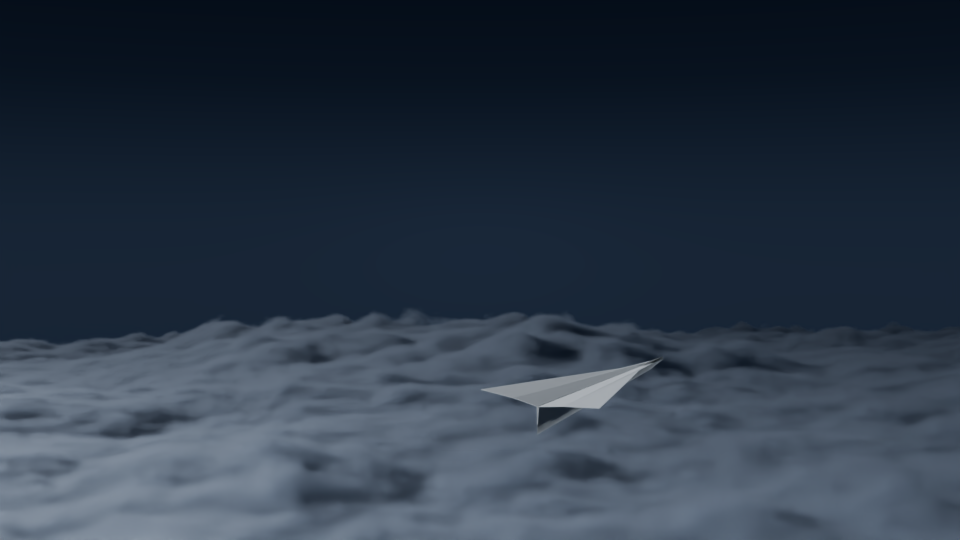
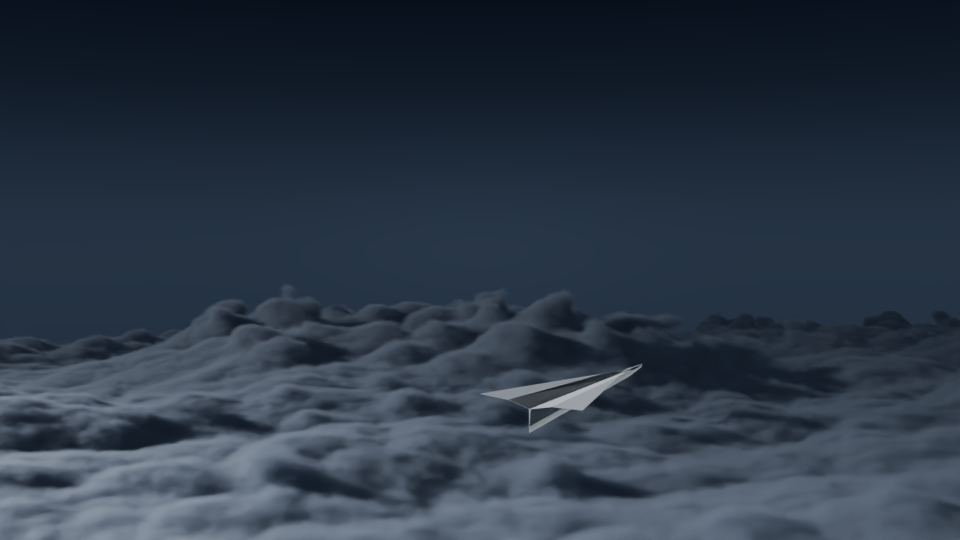
WIP: Blender scene iterations, DigitalOcean deploy
Claude-Session: https://claude.ai/code/session_01TELfCwuXZ5Qk43sSRkKQuj

diff --git a/deploy/digitalocean/smoke/e2e.py b/deploy/digitalocean/smoke/e2e.py
@@ -1,0 +1,252 @@
+"""End-to-end smoke test for the AirBridge cloud droplet (deploy/digitalocean/README.md "End-to-end smoke test").
+
+Runs on any Linux machine with outbound HTTPS. Gets a throwaway Headscale user + 2 single-use pre-auth keys from the
+TEMPORARY admin endpoint (SMOKE_TEST=1, bearer = waitlist admin token), starts two real airbridge-net sidecars
+(separate state dirs) and two real AirBridge daemons in sidecar mode, and checks: both `connected`, mutual
+visibility in /nodes, and real deliveries both ways (/send_task -> sidecar /send -> peer mesh :8989 -> peer inbox).
+With --cleanup it then stops everything, calls POST /v1/admin/smoke/cleanup (deletes the smoke user + nodes and turns
+the endpoints off for good) and checks that both endpoints answer 404.
+
+  python3 deploy/digitalocean/smoke/e2e.py --base https://<host> --token-file <file> [--cleanup]
+      [--net-bin desktop/resources/net/linux-x64/airbridge-net] [--python <venv python with airbridge deps>]
+
+Pre-auth keys and the admin token are never printed. Prints one line: SMOKE_RESULT {...}. Proxy env (HTTPS_PROXY,
+NO_PROXY) and SSL_CERT_FILE are passed to the sidecars, so it also works behind an egress proxy (DERP over 443 then).
+"""
+
+from __future__ import annotations
+
+import argparse
+import json
+import os
+import re
+import secrets
+import ssl
+import subprocess
+import sys
+import tempfile
+import threading
+import time
+import urllib.error
+import urllib.request
+from pathlib import Path
+
+REPO = Path(__file__).resolve().parents[3]
+LOCAL = urllib.request.build_opener(urllib.request.ProxyHandler({}))  # loopback APIs: never via a proxy
+DERP_RE = re.compile(r"derp|magicsock|netcheck|home is now|endpoints changed", re.I)
+SECRETISH = re.compile(r"(hskey|tskey|nodekey|privkey|auth[_-]?key)", re.I)
+
+
+def log(msg: str, **kw) -> None:
+    print(json.dumps({"smoke": msg, **kw}), file=sys.stderr, flush=True)
+
+
+def http(opener, method: str, url: str, body=None, headers=None, timeout: float = 40):
+    data = None if body is None else json.dumps(body).encode()
+    req = urllib.request.Request(url, data=data, method=method,
+                                 headers={"Content-Type": "application/json", **(headers or {})})
+    try:
+        with opener.open(req, timeout=timeout) as r:
+            raw = r.read()
+            return r.status, (json.loads(raw) if raw else {})
+    except urllib.error.HTTPError as e:
+        raw = e.read()
+        try:
+            return e.code, json.loads(raw)
+        except ValueError:
+            return e.code, {"raw": raw.decode(errors="replace")[:200]}
+
+
+def wait(pred, timeout: float, what: str):
+    deadline = time.monotonic() + timeout
+    last = None
+    while time.monotonic() < deadline:
+        try:
+            v = pred()
+            if v:
+                return v
+        except Exception as exc:  # noqa: BLE001
+            last = exc
+        time.sleep(0.25)
+    raise RuntimeError(f"timeout waiting for {what} (last: {last!r})")
+
+
+def child_env(**extra):
+    keep = ("PATH", "HOME", "LANG", "HTTPS_PROXY", "https_proxy", "HTTP_PROXY", "http_proxy", "NO_PROXY", "no_proxy",
+            "SSL_CERT_FILE")
+    env = {k: os.environ[k] for k in keep if k in os.environ}
+    env["TS_NO_LOGS_NO_SUPPORT"] = "true"
+    env.update(extra)
+    return env
+
+
+class Sidecar:
+    def __init__(self, root: Path, name: str, control_url: str, net_bin: str):
+        self.name, self.dir, self.control_url, self.bin = name, root / name, control_url, net_bin
+        self.dir.mkdir(mode=0o700)
+        self.token = secrets.token_urlsafe(32)
+        self.derp_lines: list[str] = []
+
+    def start(self, auth_key: str) -> None:
+        cfg = {"control_url": self.control_url, "hostname": f"airbridge-{self.name}", "control_token": self.token,
+               "state_dir": str(self.dir / "tsnet"), "parent_pid": os.getpid(), "verbose": True, "auth_key": auth_key}
+        self.proc = subprocess.Popen([self.bin], env=child_env(), stdin=subprocess.PIPE, stdout=subprocess.DEVNULL,
+                                     stderr=subprocess.PIPE, cwd=str(self.dir))
+        self.proc.stdin.write((json.dumps(cfg) + "\n").encode())
+        self.proc.stdin.close()
+        deadline = time.monotonic() + 30
+        while time.monotonic() < deadline:
+            line = self.proc.stderr.readline().decode(errors="replace")
+            if not line:
+                raise RuntimeError(f"sidecar {self.name} exited early")
+            if line.startswith("AIRBRIDGE_NET_READY "):
+                info = json.loads(line.split(" ", 1)[1])
+                host = "[::1]" if info.get("host") == "::1" else "127.0.0.1"
+                self.url = f"http://{host}:{info['port']}"
+                break
+        else:
+            raise RuntimeError(f"sidecar {self.name}: no READY line")
+        threading.Thread(target=self._pump, daemon=True).start()
+
+    def _pump(self) -> None:
+        for raw in iter(self.proc.stderr.readline, b""):
+            text = raw.decode(errors="replace").rstrip()
+            if DERP_RE.search(text) and not SECRETISH.search(text):
+                self.derp_lines.append(text[:240])
+
+    def api(self, method, path, body=None):
+        return http(LOCAL, method, self.url + path, body, {"Authorization": f"Bearer {self.token}"})
+
+    def stop(self) -> None:
+        if getattr(self, "proc", None) and self.proc.poll() is None:
+            self.proc.terminate()
+            try:
+                self.proc.wait(5)
+            except subprocess.TimeoutExpired:
+                self.proc.kill()
+
+
+class Daemon:
+    def __init__(self, sc: Sidecar, python: str):
+        self.token = secrets.token_urlsafe(32)
+        self.inbox = sc.dir / "inbox"
+        env = child_env(AIRBRIDGE_NETWORK="sidecar", AIRBRIDGE_NET_URL=sc.url, AIRBRIDGE_NET_TOKEN=sc.token,
+                        AIRBRIDGE_CONTROL_TOKEN=self.token, AIRBRIDGE_CONTROL_PORT="0",
+                        AIRBRIDGE_DATA_DIR=str(sc.dir / "data"), AIRBRIDGE_INBOX_DIR=str(self.inbox),
+                        AIRBRIDGE_LOG_FILE=str(sc.dir / "airbridge.log"), PYTHONUNBUFFERED="1")
+        for k in ("HTTPS_PROXY", "https_proxy", "HTTP_PROXY", "http_proxy"):
+            env.pop(k, None)  # the daemon only talks to loopback
+        self.proc = subprocess.Popen([python, str(REPO / "airbridge" / "main.py"), "--daemon"], env=env,
+                                     cwd=str(sc.dir), stdin=subprocess.DEVNULL, stdout=subprocess.DEVNULL,
+                                     stderr=subprocess.PIPE)
+        line = self.proc.stderr.readline().decode()
+        if not line.startswith("AIRBRIDGE_READY "):
+            raise RuntimeError(f"daemon did not start: {line[:200]}")
+        info = json.loads(line.split(" ", 1)[1])
+        host = "[::1]" if info.get("control_host") == "::1" else "127.0.0.1"
+        self.url = f"http://{host}:{info['control_port']}"
+        threading.Thread(target=lambda: [None for _ in iter(self.proc.stderr.readline, b"")], daemon=True).start()
+
+    def api(self, method, path, body=None):
+        return http(LOCAL, method, self.url + path, body, {"Authorization": f"Bearer {self.token}"})
+
+    def stop(self) -> None:
+        if self.proc.poll() is None:
+            self.proc.terminate()
+            try:
+                self.proc.wait(5)
+            except subprocess.TimeoutExpired:
+                self.proc.kill()
+
+
+def main() -> int:
+    ap = argparse.ArgumentParser()
+    ap.add_argument("--base", required=True, help="https://<host>")
+    ap.add_argument("--token-file", required=True, help="file holding the waitlist admin token")
+    ap.add_argument("--net-bin", default=str(REPO / "desktop/resources/net/linux-x64/airbridge-net"))
+    ap.add_argument("--python", default=sys.executable, help="python with airbridge/requirements.txt installed")
+    ap.add_argument("--rounds", type=int, default=5)
+    ap.add_argument("--cleanup", action="store_true")
+    ap.add_argument("--cafile", default=os.environ.get("SSL_CERT_FILE"))
+    args = ap.parse_args()
+
+    base = args.base.rstrip("/")
+    ctx = ssl.create_default_context(cafile=args.cafile) if args.cafile else ssl.create_default_context()
+    remote = urllib.request.build_opener(urllib.request.HTTPSHandler(context=ctx))
+    token = Path(args.token_file).read_text().strip()
+    admin = {"Authorization": f"Bearer {token}"}
+    result: dict = {"ok": False, "base": base}
+    scs: dict[str, Sidecar] = {}
+    dms: dict[str, Daemon] = {}
+    try:
+        code, keys = http(remote, "POST", f"{base}/v1/admin/smoke/keys", {}, admin)
+        if code != 200:
+            raise RuntimeError(f"smoke keys: HTTP {code} {keys}")
+        result["smoke_user"] = keys["user"]
+        control = keys["login_server"]
+        result["login_server"] = control
+        auth_keys = list(keys.pop("auth_keys"))
+        root = Path(tempfile.mkdtemp(prefix="absmoke"))
+        t0 = time.monotonic()
+        scs = {n: Sidecar(root, n, control, args.net_bin) for n in ("s1", "s2")}
+        for sc, k in zip(scs.values(), auth_keys):
+            sc.start(k)
+        del auth_keys, keys
+        for n, sc in scs.items():
+            st = wait(lambda sc=sc: (s := sc.api("GET", "/status")[1]).get("state") == "connected" and s, 120,
+                      f"{n} connected")
+            result[f"{n}_status"] = {"state": st["state"], "ip": st["self"]["ip"], "hostname": st["self"]["hostname"]}
+        result["enroll_seconds"] = round(time.monotonic() - t0, 2)
+        log("both connected", seconds=result["enroll_seconds"])
+        # Control-assigned names (Headscale suffixes -1, -2, ... when a name is taken), as /status reports them.
+        name = {n: result[f"{n}_status"]["hostname"] for n in scs}
+        for a, b in (("s1", "s2"), ("s2", "s1")):
+            node = wait(lambda a=a, b=b: next((x for x in scs[a].api("GET", "/nodes")[1]["nodes"]
+                                               if x["hostname"] == name[b] and x["online"]), None), 90, f"{a} sees {b}")
+            result[f"{a}_sees_{b}"] = {"ip": node["ip"], "online": node["online"]}
+        log("mutual visibility ok")
+        dms = {n: Daemon(sc, args.python) for n, sc in scs.items()}
+        for n, dm in dms.items():
+            wait(lambda dm=dm: dm.api("GET", "/status")[1]["inbox"]["listening"], 60, f"{n} inbox")
+        timings: dict[str, list[float]] = {"s1->s2": [], "s2->s1": []}
+        for i in range(args.rounds):
+            for a, b in (("s1", "s2"), ("s2", "s1")):
+                before = set(dms[b].inbox.glob("*.md")) if dms[b].inbox.exists() else set()
+                marker = f"smoke {a} to {b} round {i} {secrets.token_hex(4)}"
+                t = time.monotonic()
+                code, res = dms[a].api("POST", "/send_task", {"target_hostname": name[b], "task_description": marker})
+                dt = time.monotonic() - t
+                if code != 200 or not res.get("ok"):
+                    raise RuntimeError(f"send {a}->{b} #{i}: {code} {str(res)[:200]}")
+                new = [f for f in dms[b].inbox.glob("*.md") if f not in before]
+                if not any(marker in f.read_text(encoding="utf-8") for f in new):
+                    raise RuntimeError(f"send {a}->{b} #{i}: delivered but not found in the inbox")
+                timings[f"{a}->{b}"].append(round(dt * 1000, 1))
+            time.sleep(0.3)
+        result["send_ms"] = timings
+        allv = sorted(v for vs in timings.values() for v in vs)
+        result["send_ms_summary"] = {"first": timings["s1->s2"][0], "min": allv[0], "median": allv[len(allv) // 2],
+                                     "max": allv[-1]}
+        result["ok"] = True
+    except Exception as exc:  # noqa: BLE001
+        result["error"] = str(exc)[:500]
+    finally:
+        for dm in dms.values():
+            dm.stop()
+        for n, sc in scs.items():
+            sc.stop()
+            result[f"{n}_derp_log_tail"] = sc.derp_lines[-6:]
+    if args.cleanup:
+        code, body = http(remote, "POST", f"{base}/v1/admin/smoke/cleanup", {}, admin)
+        result["cleanup"] = {"status": code, **(body if isinstance(body, dict) else {})}
+        time.sleep(3)  # the host's smoke-off path unit flips SMOKE_TEST=0 and restarts the license server
+        result["after_cleanup"] = {
+            p: http(remote, "POST", f"{base}{p}", {}, admin)[0]
+            for p in ("/v1/admin/smoke/keys", "/v1/admin/smoke/cleanup")
+        }
+    print("SMOKE_RESULT " + json.dumps(result), flush=True)
+    return 0 if result["ok"] else 1
+
+
+if __name__ == "__main__":
+    sys.exit(main())
